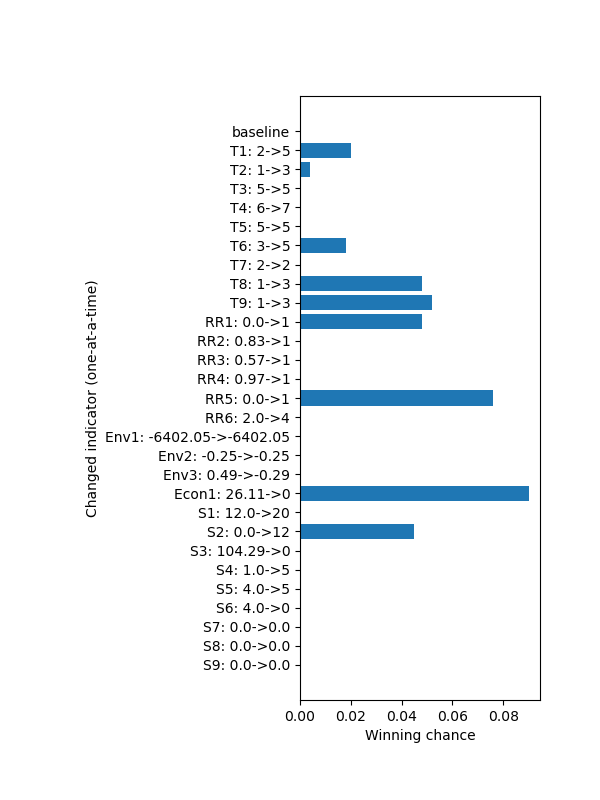
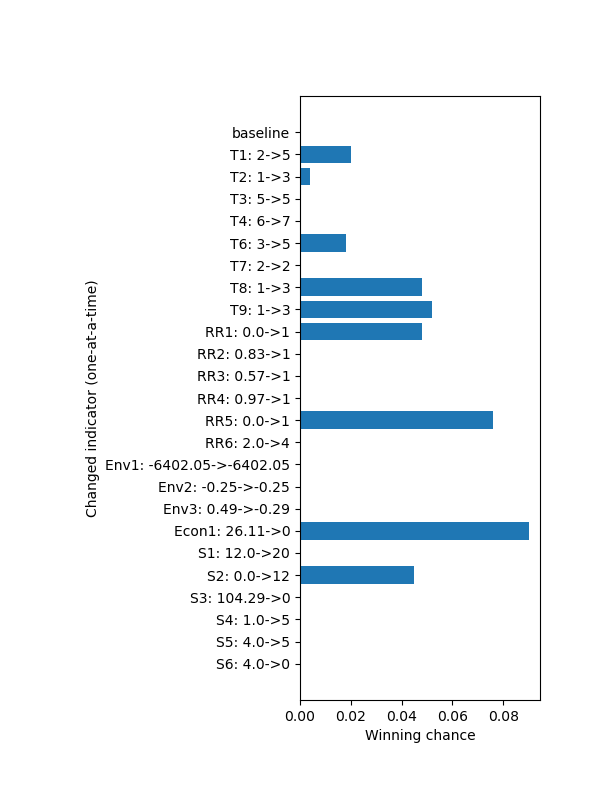
add optimal frontier figure

Changed region(s): [[0.18, 0.1562, 0.9, 0.8438]]

diff --git a/dmsan/bwaise/scenario.py b/dmsan/bwaise/scenario.py
@@ -12,6 +12,7 @@ the performance score of each system and thus the final winner.
 import os
 import numpy as np, pandas as pd
 from matplotlib import pyplot as plt
+from qsdsan.utils import time_printer
 from dmsan import AHP
 from dmsan.bwaise import results_path, figures_path, import_from_pickle
 
@@ -53,7 +54,8 @@ def update_local_weights(tech_scores):
 # Different scenairos
 # =============================================================================
 
-# Best scores, if None, will be chosen between the best
+# Best scores that the alternative can achieve,
+# if None (meaning no absolute scale), will be chosen between the best
 # (min for non-beneficial indicators and max for beneficial ones)
 # among the three systems
 best_score_dct = {
@@ -83,7 +85,8 @@ best_score_dct = {
     'S6': 0
     }
 
-def test_oat(mcda, alt, indicators=None, best_score={}):
+
+def test_oat(mcda, alt, best_score={}):
     '''
     One-at-a-time test on if changing the tech score of one indicator would
     affect the overall winner.
@@ -91,28 +94,19 @@ def test_oat(mcda, alt, indicators=None, best_score={}):
 
     If `all_at_once` is True, will change all the indicators at one time
     '''
-
     weight_num = mcda.criteria_weights.shape[0]
     idx = mcda.alt_names[mcda.alt_names==alt].index[0]
 
-    if indicators is None:
-        indicators = mcda.indicator_type.columns
-    else:
-        try:
-            iter(indicators)
-        except TypeError:
-            indicators = (indicators,)
-
-    oat_dct = {ind: {} for ind in indicators}
+    oat_dct = {ind: {} for ind in best_score.keys()}
     for ind, data in oat_dct.items():
         # Reset technology scores and refresh results
         mcda.tech_scores = baseline_tech_scores.copy()
         series = mcda.tech_scores.loc[:, ind]
         baseline = series.loc[idx]
         ind_type = int(mcda.indicator_type[ind])
-        baseline_rank = series.rank(ascending=bool(not ind_type)).loc[idx]
-        if baseline_rank < 2:
-            print(f'{alt} already winning indicator {ind}.')
+        baseline_rank = series.rank(ascending=bool(not ind_type), method='min').loc[idx]
+        # if baseline_rank == 1:
+        #     print(ind, baseline_rank)
 
         if ind_type == 0: # non-beneficial
             if best_score.get(ind) is not None:
@@ -127,21 +121,25 @@ def test_oat(mcda, alt, indicators=None, best_score={}):
                 updated = series.max()
 
         mcda.tech_scores.loc[idx, ind] = updated
-        updated_rank = series.rank(ascending=bool(not ind_type)).loc[idx]
+        updated_rank = mcda.tech_scores.loc[:, ind].rank(ascending=bool(not ind_type),
+                                                         method='min').loc[idx]
+        if updated_rank != 1:
+            # breakpoint()
+            print(ind, '\n', mcda.tech_scores.loc[:, ind])
 
         # Update local weights
         mcda.indicator_weights = update_local_weights(mcda.tech_scores)
 
         # Run MCDA with multiple global weights
         mcda.run_MCDA()
-        win_chance = mcda.winners[mcda.winners.Winner==alt].shape[0]/weight_num
+        winning_chance = mcda.winners[mcda.winners.Winner==alt].shape[0]/weight_num
 
         data['indicator type']: ind_type
         data['baseline'] = baseline
         data['rank at baseline'] = baseline_rank
         data['updated'] = updated
         data['rank after updating'] = updated_rank
-        data['winning chance'] = win_chance
+        data['winning chance'] = winning_chance
 
     # # Get the winning chance for all best scores at the same time
     # for ind, data in test_dct.items():
@@ -192,6 +190,7 @@ def plot_oat(oat_dct, save=True):
 
 
 def test_acc(mcda, alt, oat_dct):
+    '''Test the accumulative effects of the one-at-a-time best (at baseline).'''
     acc_dct = {}
     baseline_winning = oat_dct['baseline']['winning chance']
     for ind, data_dct in oat_dct.items():
@@ -226,19 +225,78 @@ def test_acc(mcda, alt, oat_dct):
 def plot_acc(acc_dct, save=True):
     fig, ax = plt.subplots(figsize=(6, 8))
     labels = [f'+{i}' for i in acc_dct.keys()]
+    values = list(acc_dct.values())
+    if '+baseline' in labels:
+        idx = labels.index('+baseline')
+        labels.insert(0, labels.pop(idx))
+        values.insert(0, values.pop(idx))
+
     labels[0] = labels[0].lstrip('+')
 
     x = np.arange(len(labels))
-    ax.plot(x, acc_dct.values(), '-o')
+    ax.plot(x, values, '-o')
 
     ax.set(xticks=x, xticklabels=labels, xlabel='Changed indicator (accumulated)',
            ylabel='Winning chance')
 
     for label in ax.get_xticklabels():
         label.set_rotation(30)
+
     if save:
         fig.savefig(os.path.join(figures_path, 'test_acc.png'), dpi=100)
 
+    return ax
+
+
+# %%
+
+@time_printer
+def find_frontier(mcda, alt, oat_dct):
+    '''Find the optimal frontier for improving the indicator scores.'''
+    weight_num = mcda.criteria_weights.shape[0]
+    idx = mcda.alt_names[mcda.alt_names==alt].index[0]
+
+    winning_chances = [data['winning chance'] for data in oat_dct.values()]
+    frontier_dct = {ind: data['winning chance']
+                   for ind, data in oat_dct.items()
+                   if data['winning chance']==max(winning_chances)}
+    ind, winning_chance = list(frontier_dct.keys())[0], list(frontier_dct.values())[0]
+    updated_scores = baseline_tech_scores.copy()
+    updated_scores.loc[idx, ind] = winning_chance
+
+    copied = oat_dct.copy()
+    copied.pop(ind)['winning chance']
+    frontier_dct['baseline'] = copied.pop('baseline')['winning chance']
+
+    # End looping if already has reached 100% winning
+    # or tried all indicators
+    while (winning_chance<1 and len(copied)!=0):
+        winning_dct = {}
+        for ind, data in copied.items():
+            mcda.tech_scores = updated_scores.copy()
+            mcda.tech_scores.loc[idx, ind] = data['updated']
+
+            # Update local weights
+            mcda.indicator_weights = update_local_weights(mcda.tech_scores)
+
+            # Run MCDA with multiple global weights
+            mcda.run_MCDA()
+            winning_dct[ind] = mcda.winners[mcda.winners.Winner==alt].shape[0]/weight_num
+
+        # Find the indicator change with the highest winning chance
+        best_chance = max(winning_dct.values())
+        best_ind = list(winning_dct.keys())[list(winning_dct.values()).index(best_chance)]
+        updated_scores.loc[idx, best_ind] = oat_dct[best_ind]['updated']
+        winning_chance = frontier_dct[best_ind] = best_chance
+        copied.pop(best_ind)
+
+    return frontier_dct
+
+
+def plot_frontier(frontier_dct, save=True):
+    ax = plot_acc(frontier_dct, save=False)
+    if save:
+        ax.figure.savefig(os.path.join(figures_path, 'optimal_frontier.png'), dpi=100)
     return ax
 
 
@@ -251,6 +309,9 @@ if __name__ == '__main__':
     acc_dct = test_acc(bwaise_mcda, alt='Alternative C', oat_dct=oat_dct)
     ax = plot_acc(acc_dct, save=True)
 
+    frontier_dct = find_frontier(bwaise_mcda, alt='Alternative C', oat_dct=oat_dct)
+    ax = plot_frontier(frontier_dct, save=True)
+
 
 
 # %%
@@ -260,7 +321,6 @@ if __name__ == '__main__':
 # =============================================================================
 
 # import seaborn as sns
-# from qsdsan.utils import time_printer
 
 # @time_printer
 # def test_across_axis(mcda, alt, indicator, include_simulation_uncertainties=False,

diff --git a/dmsan/bwaise/line_graph.py b/dmsan/bwaise/line_graph.py
@@ -46,7 +46,7 @@ def make_line_graph1(winner_df, alt, cutoffs=[0.25, 0.5, 0.75, 1],
     percent = winner_df[winner_df==alt].count()/winner_df.shape[0]
 
     # Extract the weighing information
-    ration2float = lambda ratio: np.array(ratio.split(':'), dtype='float')
+    ratio2float = lambda ratio: np.array(ratio.split(':'), dtype='float')
 
     fig, ax = plt.subplots(figsize=(8, 4.5))
 
@@ -56,11 +56,11 @@ def make_line_graph1(winner_df, alt, cutoffs=[0.25, 0.5, 0.75, 1],
         lower = 0. if idx == 0 else cutoffs[idx-1]
         upper = cutoffs[idx]
         if upper == 1:
-            wt = np.array([ration2float(i)
+            wt = np.array([ratio2float(i)
                             for i in percent[(lower<=percent)&(percent<=upper)].index])
             right = ']'
         else:
-            wt = np.array([ration2float(i)
+            wt = np.array([ratio2float(i)
                             for i in percent[(lower<=percent)&(percent<upper)].index])
             right = ')'
 
@@ -96,8 +96,8 @@ def make_line_graph2A(winner_df, alt, cmap):
     percent = winner_df[winner_df==alt].count()/winner_df.shape[0]
 
     # Extract the weighing information
-    ration2float = lambda ratio: np.array(ratio.split(':'), dtype='float')
-    wt = np.array([ration2float(i) for i in percent.index])
+    ratio2float = lambda ratio: np.array(ratio.split(':'), dtype='float')
+    wt = np.array([ratio2float(i) for i in percent.index])
     fig, ax = plt.subplots(figsize=(8, 4.5))
 
     cm = getattr(pl.cm, cmap)
@@ -129,8 +129,8 @@ def make_line_graph2B(winner_df):
         print(f'Alternative {alt} wins {counts[n]} of {tot} times.')
     # print(f'Alternative {alts[i]} wins {}')
     # Extract the weighing information
-    ration2float = lambda ratio: np.array(ratio.split(':'), dtype='float')
-    wts = [np.array([ration2float(i) for i in wt.index]) for wt in separated]
+    ratio2float = lambda ratio: np.array(ratio.split(':'), dtype='float')
+    wts = [np.array([ratio2float(i) for i in wt.index]) for wt in separated]
 
     fig, ax = plt.subplots(figsize=(8, 4.5))
     for wt, cmap in zip(wts, ('Reds', 'Greens', 'Blues')):
